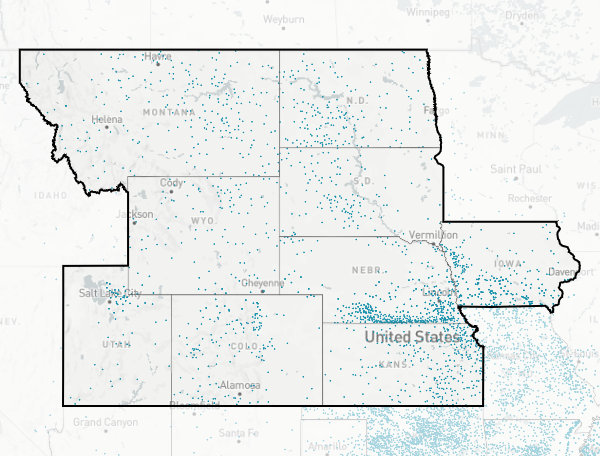
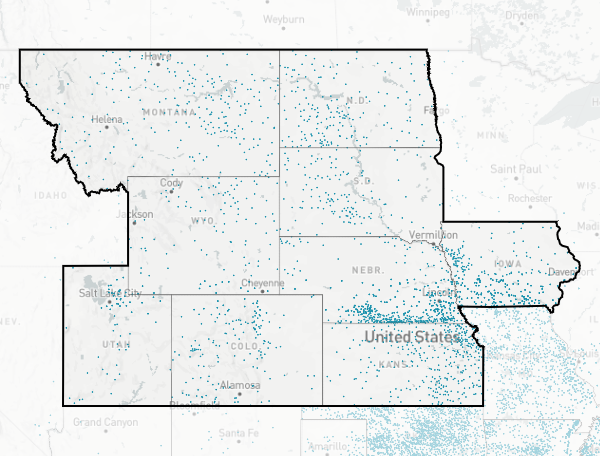
Update map images for homepage

diff --git a/ui/src/content/home/Tool.jsx b/ui/src/content/home/Tool.jsx
@@ -16,7 +16,7 @@ const Tool = () => {
     },
   } = useStaticQuery(graphql`
     query {
-      prioritize: file(relativePath: { eq: "prioritize.jpg" }) {
+      prioritize: file(relativePath: { eq: "prioritize.png" }) {
         childImageSharp {
           gatsbyImageData(
             layout: CONSTRAINED
@@ -26,7 +26,7 @@ const Tool = () => {
           )
         }
       }
-      summarize: file(relativePath: { eq: "summarize.jpg" }) {
+      summarize: file(relativePath: { eq: "summarize.png" }) {
         childImageSharp {
           gatsbyImageData(
             layout: CONSTRAINED
@@ -64,7 +64,7 @@ const Tool = () => {
           </Paragraph>
         </Box>
         <Box>
-          <Flex sx={{ justifyContent: 'center', mb: '2rem' }}>
+          <Flex sx={{ justifyContent: 'flex-end', mb: '1rem' }}>
             <Link to="/summary">
               <Button variant="primary">
                 <ChartBar size="1em" />
@@ -72,9 +72,19 @@ const Tool = () => {
               </Button>
             </Link>
           </Flex>
-          <Link to="/summary">
-            <Image image={summarizeImage} alt="Summarize View" />
-          </Link>
+          <Box
+            sx={{
+              img: {
+                border: '1px solid',
+                borderColor: 'grey.3',
+                boxShadow: '1px 1px 3px #AAA',
+              },
+            }}
+          >
+            <Link to="/summary">
+              <Image image={summarizeImage} alt="Summarize View" />
+            </Link>
+          </Box>
         </Box>
       </Grid>
 
@@ -94,7 +104,7 @@ const Tool = () => {
           </Paragraph>
         </Box>
         <Box>
-          <Flex sx={{ justifyContent: 'center', mb: '2rem' }}>
+          <Flex sx={{ justifyContent: 'flex-end', mb: '1rem' }}>
             <Link to="/priority">
               <Button>
                 <SearchLocation size="1em" />
@@ -102,9 +112,11 @@ const Tool = () => {
               </Button>
             </Link>
           </Flex>
-          <Link to="/priority">
-            <Image image={prioritizeImage} alt="Priority View" />
-          </Link>
+          <Box sx={{ img: { border: '1px solid', borderColor: 'grey.3' } }}>
+            <Link to="/priority">
+              <Image image={prioritizeImage} alt="Priority View" />
+            </Link>
+          </Box>
         </Box>
       </Grid>
     </Box>

diff --git a/analysis/post/maps/index.js b/analysis/post/maps/index.js
@@ -112,11 +112,6 @@ regions.forEach(({ id, bbox: bounds }) => {
   style.layers[4].filter = ['==', 'id', id]
   render(style, width, height, {
     token,
-    // zoom: 5,
-    // center: [
-    //   (bounds[2] - bounds[0]) / 2 + bounds[0],
-    //   (bounds[3] - bounds[1]) / 2 + bounds[1],
-    // ],
     bounds,
     padding: id === 'se' ? 10 : 20,
     tilePath,

diff --git a/deploy/README.md b/deploy/README.md
@@ -3,8 +3,8 @@
 ## Server
 
 - Create an EC2 T3a.small server based on Ubuntu 20.04 LTS
-- Set root volume to have 20 GB of space (need large /tmp folder space for uploading tiles)
-- Create a second volume with 20 GB of space (/tiles)
+- Set root volume to have 30 GB of space (need large /tmp folder space for uploading tiles)
+- Create a second volume with 32 GB of space (/tiles)
 - Create an elastic IP and assign to that instance
 - Create a 4 GB swap file according to instructions here: https://www.digitalocean.com/community/tutorials/how-to-add-swap-space-on-ubuntu-16-04
   - `sudo fallocate -l 4G /swapfile`
@@ -12,7 +12,7 @@
   - `sudo mkswap /swapfile`
   - `sudo swapon /swapfile`
   - add this to `/etc/fstab`: `/swapfile none swap sw 0 0`
-- Format and mount 20 GB secondary volume
+- Format and mount 32 GB secondary volume
   - use `lsblk` to list volumes; it should be listed as `nvme1n1`
   - `sudo mkfs -t ext4 /dev/nvme1n1`
   - `sudo mkdir /tiles`
